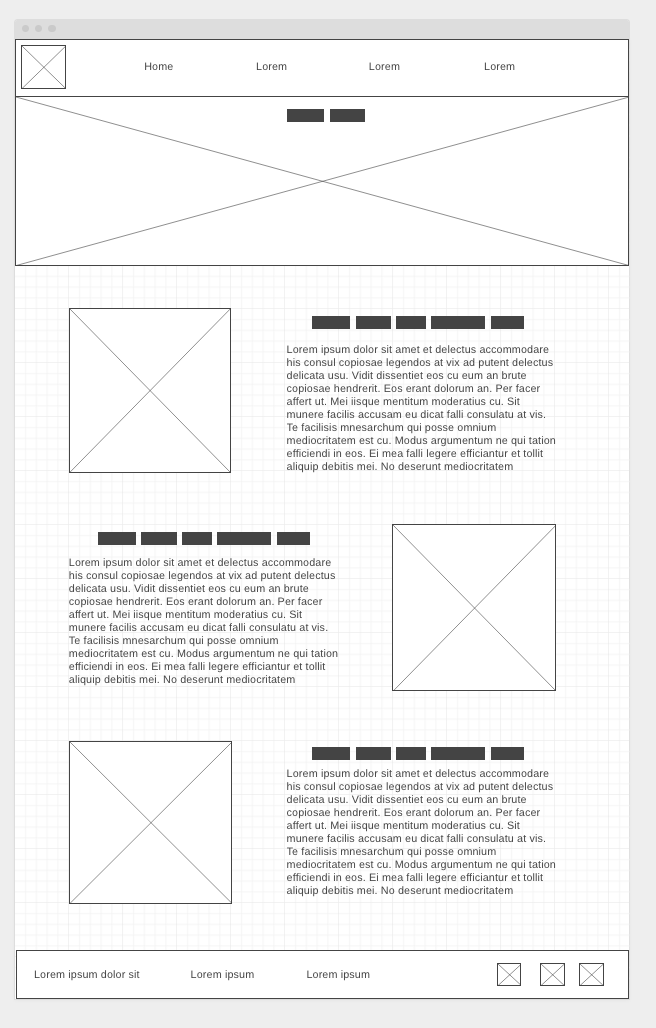
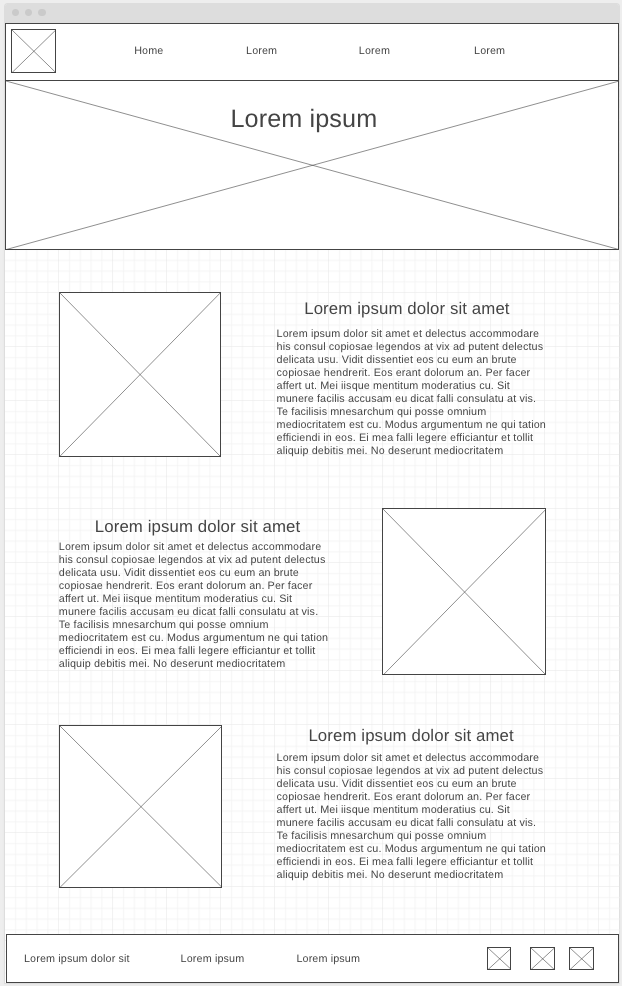
correct image

diff --git a/wwr/site-plan-rafting.html b/wwr/site-plan-rafting.html
@@ -94,7 +94,7 @@
     <h3>Navigation</h3>
     <nav>
       <a href="#">Home</a>
-      <a href="#">Page2</a>
+      <a href="#">Rivers</a>
       <a href="#">Contact Us</a>
     </nav>
     <hr/>
@@ -103,7 +103,6 @@
       <div class="sm-home">Home</div>
       <div class="sm-page2">
         Rivers
-        <!-- this page will have a name later -->
       </div>
       <div class="sm-page3">Contact Us</div>
 
@@ -123,7 +122,6 @@
 
     <img src="images/wireframe1-veihi-tupai.png" alt="rivers page wireframe"/>
 
-    <!-- <img src="#" alt="page 2 wireframe"> -->
   </main>
 </body>
 
